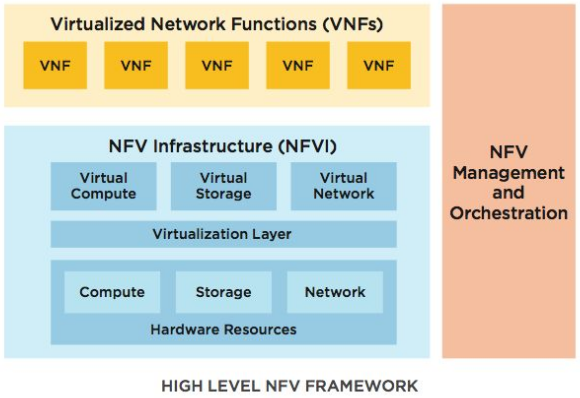
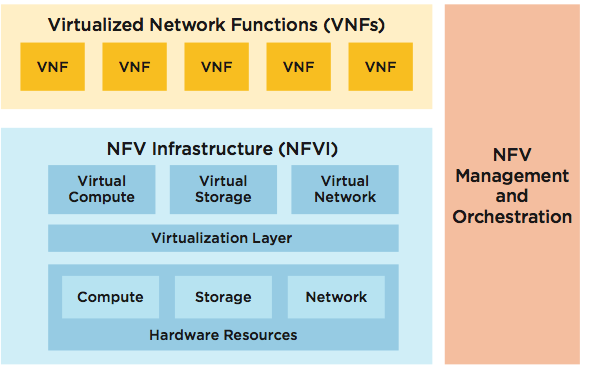
Change paper images

diff --git a/res/sections/15-ArchitecturalImplementation.tex b/res/sections/15-ArchitecturalImplementation.tex
@@ -13,7 +13,7 @@ some of its functional components and the way they work.
 \subsection{A two-level orchestration framework}
 \begin{figure}[t]
   \centering
-  \includegraphics[scale=0.6]{Architecture}
+  \includegraphics[width=\textwidth]{Architecture}
   \caption[Architecture schema depicting the expected
     implementation]{Architecture schema depicting the expected implementation.
     It is possible to see how Openbaton interacts with the various components in

diff --git a/res/sections/08-Background.tex b/res/sections/08-Background.tex
@@ -414,7 +414,7 @@ environments such as the cloud one.
 
 \begin{figure}[t]
   \centering
-  \includegraphics[scale=2]{etsi_arch}
+  \includegraphics[scale=0.5]{etsi_arch}
   \caption[Network Function Virtualization reference architecture]{Network
     Function Virtualization reference architecture~\cite{etsi2013gs}}
   \label{chap:background:img:etsi_arch}
